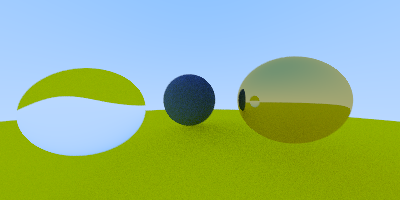
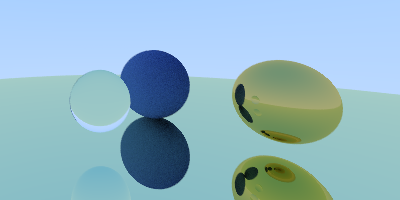
change camera perspective; set main sphere to reflect

diff --git a/src/main.rs b/src/main.rs
@@ -15,31 +15,32 @@ use std::path::Path;
 fn world<'a>() -> Vec<BoxedSurface> {
     let mut world: Vec<BoxedSurface> = vec![];
 
-    let diffuse1 = Box::new(Lambertian::new(Vec3::new(0.1, 0.2, 0.5)));
-    let diffuse2 = Box::new(Lambertian::new(Vec3::new(0.8, 0.8, 0.0)));
-    let reflective = Box::new(Reflective::new(Vec3::new(0.8, 0.6, 0.2)));
+    let diffuse = Box::new(Lambertian::new(Vec3::new(0.1, 0.2, 0.5)));
+    // let diffuse2 = Box::new(Lambertian::new(Vec3::new(0.8, 0.8, 0.0)));
+    let reflective1 = Box::new(Reflective::new(Vec3::new(0.8, 0.9, 0.6)));
+    let reflective2 = Box::new(Reflective::new(Vec3::new(0.8, 0.6, 0.2)));
     let refractive = Box::new(Refractive::new(1.5));
     // Plane
     world.push(Box::new(Sphere::new(
         Vec3::new(0.0, -100.5, -1.0),
         100.0,
-        diffuse2,
+        reflective1,
     )));
 
     world.push(Box::new(Sphere::new(
-        Vec3::new(-1.0, -0.1, -1.0),
-        0.4,
+        Vec3::new(-1.0, 0.0, -1.0),
+        0.3,
         refractive,
     )));
     world.push(Box::new(Sphere::new(
         Vec3::new(-0.2, 0.0, -2.0),
         0.5,
-        diffuse1,
+        diffuse,
     )));
     world.push(Box::new(Sphere::new(
         Vec3::new(0.8, 0.0, -1.0),
         0.4,
-        reflective,
+        reflective2,
     )));
 
     world

diff --git a/src/materials.rs b/src/materials.rs
@@ -112,6 +112,8 @@ impl Refractive {
 }
 
 impl Material for Refractive {
+    /// It's interesting that the following code overflows stack sometimes...
+    /// At least in my laptop.
     fn scatter(&self, r_in: &Ray, hit: &Hit) -> Option<(Vec3, Ray)> {
         let reflected = Self::reflect(r_in.direction().unit_vec(), hit.normal);
         let (outward_normal, ni_over_nt) = if r_in.direction().dot(hit.normal) > 0.0 {
@@ -128,7 +130,6 @@ impl Material for Refractive {
             // It's important to keep the expected behavior
             return Some((attenuation, Ray::new(hit.p, reflected)));
         }
-        // It's interesting that the following code overflows stack
         // refracted
         //     .map(|refracted| Some((attenuation, Ray::new(hit.p, refracted))))
         //     .unwrap_or(Some((attenuation, Ray::new(hit.p, reflected))))

diff --git a/src/lib.rs b/src/lib.rs
@@ -11,7 +11,7 @@ use materials::BoxedMaterial;
 use parallel::{ANTIALIASING, DEPTH, HEIGHT, WIDTH};
 use scene::Camera;
 
-///
+/// Determine ray color
 pub fn ray_color(x: f32, y: f32, camera: &Camera, world: &Vec<BoxedSurface>) -> Rgb<u8> {
     let mut col = Vec3::ZERO;
     let mut rng = rand::thread_rng();

diff --git a/src/scene.rs b/src/scene.rs
@@ -92,7 +92,7 @@ impl Default for Camera {
             lower_left: Vec3::new(-2.0, 1.0, -1.0),
             horiz: Vec3::new(4.0, 0.0, 0.0),
             vert: Vec3::new(0.0, -2.0, 0.0),
-            origin: Vec3::ZERO,
+            origin: Vec3::new(-1.0, 0.5, 1.0),
         }
     }
 }
